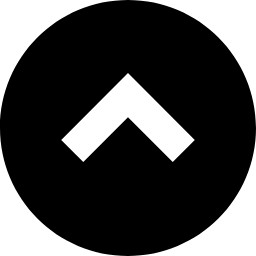
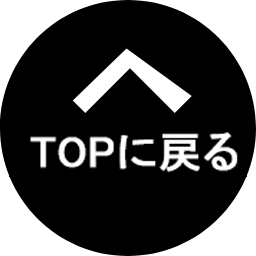
レイアウト調整

Changed region(s): [[0.0938, 0.1875, 0.9375, 0.6875]]

diff --git a/app/controllers/public/items_controller.rb b/app/controllers/public/items_controller.rb
@@ -5,6 +5,15 @@ class Public::ItemsController < ApplicationController
   def index
     @items = Item.page(params[:page])
     @genres = Genre.all
+
+  if params[:top]
+     @items = Item.top.page(params[:page])
+  elsif params[:old]
+     @items = Item.old.page(params[:page])
+  else
+     @items = Item.page(params[:page])
+  end
+
   end
 
   def show

diff --git a/app/models/item.rb b/app/models/item.rb
@@ -19,5 +19,7 @@ class Item < ApplicationRecord
   validates :price,presence:true
   validates :inventory,presence:true
 
+  scope :top, -> {order(created_at: :desc)}
+  scope :old, -> {order(created_at: :asc)}
 
 end
